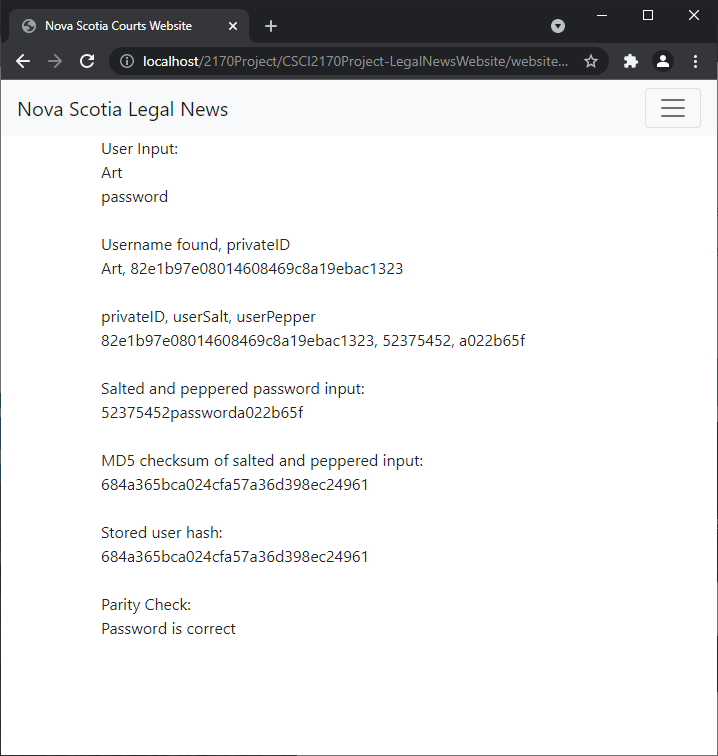
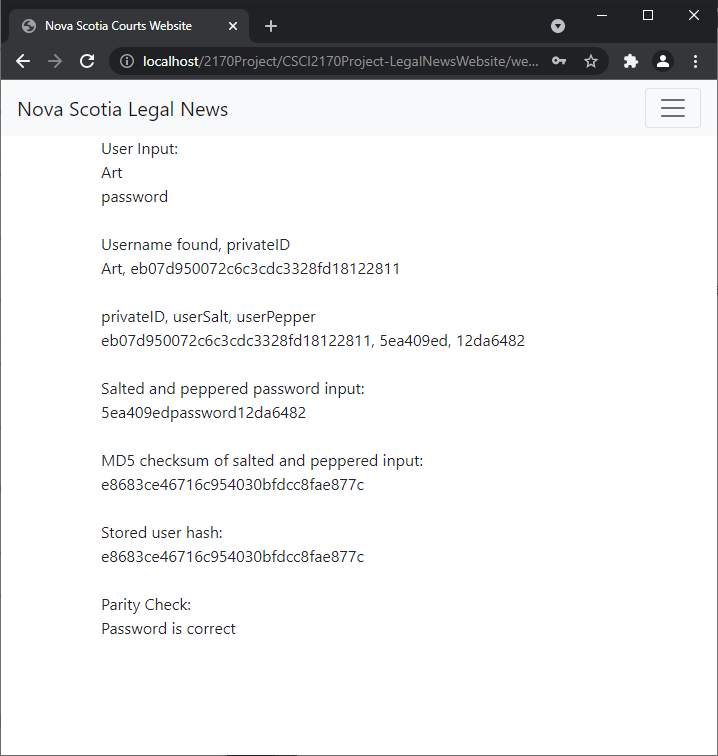
edit README and edit login image

diff --git a/README.md b/README.md
@@ -91,7 +91,8 @@ website
 
 
 ## Sample Code:
-### Creating tables for the users, their salt and peppers: 
+### Creating tables for the users, their salt and peppers:
+Three tables will be used for the login process, the users table, the userSaltAndPepper table and the userHashes table. The userHashes table contains the  
 ```sql
 CREATE TABLE users (
     userID int AUTO_INCREMENT,
@@ -125,8 +126,39 @@ CREATE TABLE userHashes(
 
 Note: the user has both a public "userID", which is a simple incremental value used for the purposes of posting content on the website, and for following other users. The user also has a "privateID" which is used only for the password related purposes.
 
-### Populating the tables:
+### Creating some test user accounts
+Format for insertion is userID (auto incremented so left as null), privateID (randomized string using UUID()), username, first name, last name, email address, time of registration (uses current_timestamp), the user's verification status (true or false), and the user's provile visibility setting (true or false).
+```sql
+INSERT INTO `users` VALUES
+(NULL, MD5(UUID()), "Site Administator", "", "", "admin@novascotialegalnews.ca", CURRENT_TIMESTAMP, TRUE, TRUE),
+(NULL, MD5(UUID()), "Art", "Arthur", "Kirkland", "kirkland@novascotialegalnews.ca", CURRENT_TIMESTAMP, TRUE, TRUE),
+(NULL, MD5(UUID()), "Frank", "Francis", "Rayford", "rayford@novascotialegalnews.ca", CURRENT_TIMESTAMP, TRUE, TRUE),
+(NULL, MD5(UUID()), "Henry", "Henry", "Fleming", "fleming@novascotialegalnews.ca", CURRENT_TIMESTAMP, TRUE, TRUE),
+(NULL, MD5(UUID()), "JayP", "Jay", "Porter", "jayp@gmail.com", CURRENT_TIMESTAMP, TRUE, TRUE),
+(NULL, MD5(UUID()), "DJ", "Dave", "Jameson", "dj@gmail.com", CURRENT_TIMESTAMP, TRUE, TRUE),
+(NULL, MD5(UUID()), "Windy", "Gail", "Packer", "windy12345@yahoo.com", CURRENT_TIMESTAMP, TRUE, TRUE);
+```
 
+### Creating some salt and pepper values for test accounts in SQL:
+Once the test accounts have been added to the database, we can generate random a salt and pepper value for each of the users. In this case I have trimmeda random UUID to 8 characters using ```LEFT(MD5(UUID()), 8)```
+
+```sql
+-- Create some random fake salt and pepper values for all the users:
+INSERT INTO `userSaltAndPepper`(privateID, userSalt, userPepper)
+SELECT privateID, LEFT(MD5(UUID()), 8), LEFT(MD5(UUID()), 8)
+FROM `users`;
+```
+
+### Hashing the salt and pepper values together with a password
+```sql
+-- Concat the user salt and peppers together with the word "password" then calculate their MD5 checksum and set it to the user's passwordHash:
+INSERT INTO `userHashes`(privateID, passwordHash)
+SELECT privateID, MD5(CONCAT(userSalt, "password", userPepper))
+FROM `userSaltAndPepper`;
+```
+
+### User enters their password in the login modal:
+![Image of login salt, pepper and hashing](READMEimg/login-2.png)
 
 ### Password input check salting routine (with print output) in PHP:
 ```php
@@ -213,10 +245,10 @@ Note: the user has both a public "userID", which is a simple incremental value u
 ?>
 ```
 
-### User enters their password in the login modal:
-![Image of login salt, pepper and hashing](READMEimg/login-2.png)
-### The output of the code above:
+### The output of the code above when the password is correct:
 ![Image of login salt, pepper and hashing](READMEimg/login-3.png)
+### The output of the code above when the password is incorrect:
+![Image of login salt, pepper and hashing](READMEimg/login-4.png)
 ### Explanation:
 1. The user's input is displayed (as shown in the figure above, "Art" is the username and "password" is the password)
 2. The database is queried for the username, and if it is found the username and the user's privateID are displayed. If the username is not found the string "Username or Password Incorrect" is displayed.
@@ -225,3 +257,77 @@ Note: the user has both a public "userID", which is a simple incremental value u
 5. This salt and peppered password is hashed with MD5
 6. The userHash database is queried using the username's corresponding privateID and the stored password hash is displayed.
 7. A parity check is performed. If the checksum of the salted and peppered input matches the stored password hash, "Password is correct" is displayed. If not "Username or Password is Incorrect" is displayed.
+
+### The same code without console logging:
+```php
+<?php
+    //Sanitize the username and password input:
+    $usernameInput = sanitizeData($_POST["username"]);
+    $passwordInput = sanitizeData($_POST["password"]);
+
+    //Query the users table for the username
+    $querySQL = "   SELECT userName, userID, privateID from users 
+                    WHERE userName = '{$usernameInput}'";
+    $result = $dbconn->query($querySQL);
+    $rowcount = mysqli_num_rows($result); 
+
+    //If the username isn't found no rows will be returned
+    if($rowcount < 1){
+        //If no username found then Set the username or password incorrect value to TRUE
+        $incorrect = TRUE;
+    }  
+    else{
+        //Get the first result as the current item:
+        foreach($result as $current){
+            //Set the userID, userName and privateID to their own variables:
+            $userID = $current["userID"];
+            $userName = $current["userName"];
+            $privateID = $current["privateID"];
+            //Get the user's salt and peppers for password spicing:
+            $querySQL = "   SELECT privateID, userSalt, userPepper from userSaltAndPepper 
+                            WHERE privateID = '{$privateID}'";
+            $result = $dbconn->query($querySQL);
+
+            //Get the first result as the current item:
+            foreach($result as $current){
+                //Set the user's salt and peppers to their own variables:
+                $userSalt = $current["userSalt"];
+                $userPepper = $current["userPepper"] ;
+                //Conatenate the salt, password input and the pepper together
+                $saltAndPepperPasswordInput = $userSalt . $passwordInput . $userPepper;
+                //Get the MD5 checksum of $saltAndPepperPasswordInput and set it to a variable:
+                $saltAndPepperPasswordInputChecksum = md5($saltAndPepperPasswordInput);
+
+                //Get the user's hashed password (with salt and pepper) from the database:
+                $querySQL = "   SELECT privateID, passwordHash from userHashes
+                                WHERE privateID = '{$privateID}'";
+                $result = $dbconn->query($querySQL);
+                foreach($result as $current){
+                    //Set the user's hashed password to variable:
+                    $passwordHash = $current["passwordHash"];
+                }
+
+            }
+        }
+        //Check if the hashed input matches the user's hashed password:
+        if($saltAndPepperPasswordInputChecksum == $passwordHash){
+            //If the password is correct, we can set the SESSION userName and userID values:
+            $_SESSION["userName"] = $userName;
+            $_SESSION["userID"] = $userID;
+            //Redirect the user 
+            header("Location: index.php");
+
+        }else{
+            //If password incorrect then Set the username or password incorrect value to TRUE
+            $incorrect = TRUE;
+        }
+    }
+    if($incorrect){
+        ?> 
+            <!--HTML CODE to enter a different password or username  -->
+        <?php
+    } 
+?>    
+```
+### When the user logs in successfully, the text in the login button is replaced with "My Profile" and an option to "Logout" is shown with an open door icon: 
+![Image of login salt, pepper and hashing](READMEimg/login-5.png)
